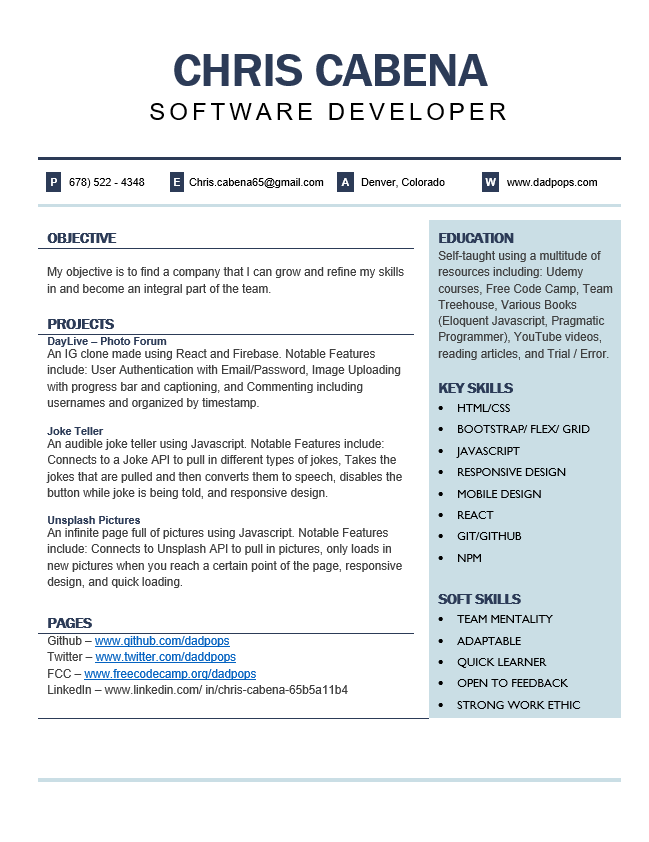
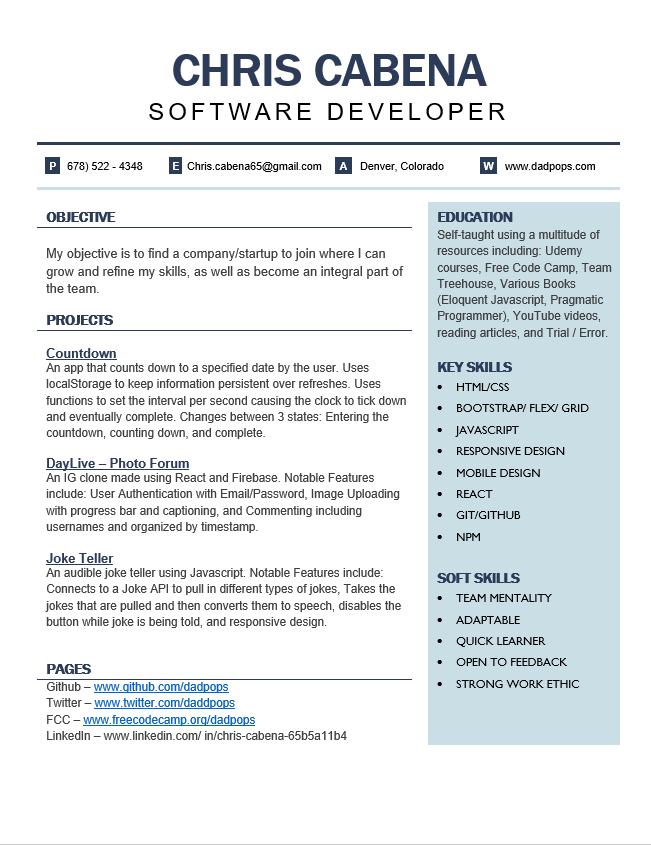
Made Changes to resume and added a project

Changed region(s): [[0.0616, 0.0618, 0.9553, 0.8955]]

diff --git a/index.html b/index.html
@@ -57,10 +57,13 @@
     <section id="projects">
         <h1 class="section_title">Projects</h1>
         <div class="buttons">
+            <a href="https://dadpops.github.io/countdown/" target="_blank"><button class="primary">Countdown-Live Demo</button></a>
+            <a href="https://github.com/Dadpops/countdown" target="_blank"><button class="secondary" >Countdown-SourceCode</button></a>
             <a href="https://dadpops.github.io/musicPlayer/" target="_blank"><button class="primary">Music Player-LiveDemo</button></a>
             <a href="https://github.com/Dadpops/musicPlayer" target="_blank"><button class="secondary" >Music Player-Source Code</button></a>
             <a href="https://dadpops.github.io/jokeTeller/" target="_blank"><button class="primary">Joke Teller-LiveDemo</button></a>
-            <a href="https://github.com/Dadpops/jokeTeller" target="_blank"><button class="secondary" >Joke Teller-SourceCode</button></a><a href="https://dadpops.github.io/infiniteScroll/" target="_blank"><button class="primary">Unsplash-LiveDemo</button></a>
+            <a href="https://github.com/Dadpops/jokeTeller" target="_blank"><button class="secondary" >Joke Teller-SourceCode</button></a>
+            <a href="https://dadpops.github.io/infiniteScroll/" target="_blank"><button class="primary">Unsplash-LiveDemo</button></a>
             <a href="https://github.com/Dadpops/infiniteScroll" target="_blank"><button class="secondary" >Unsplash-SourceCode</button></a>
         </div>
     </section>
